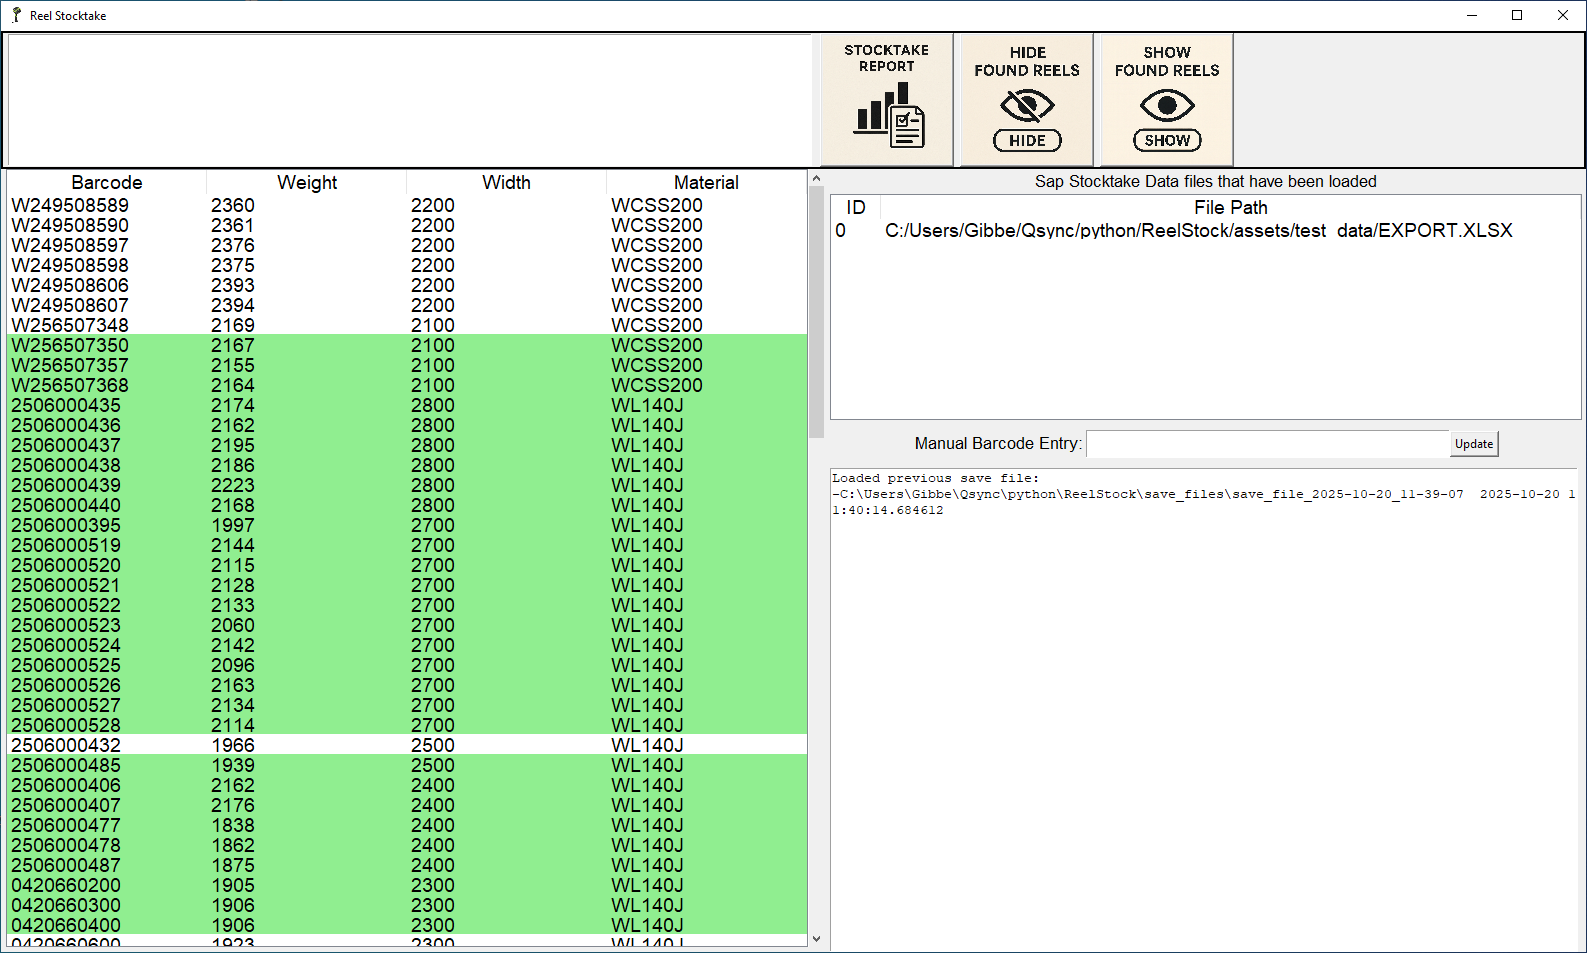
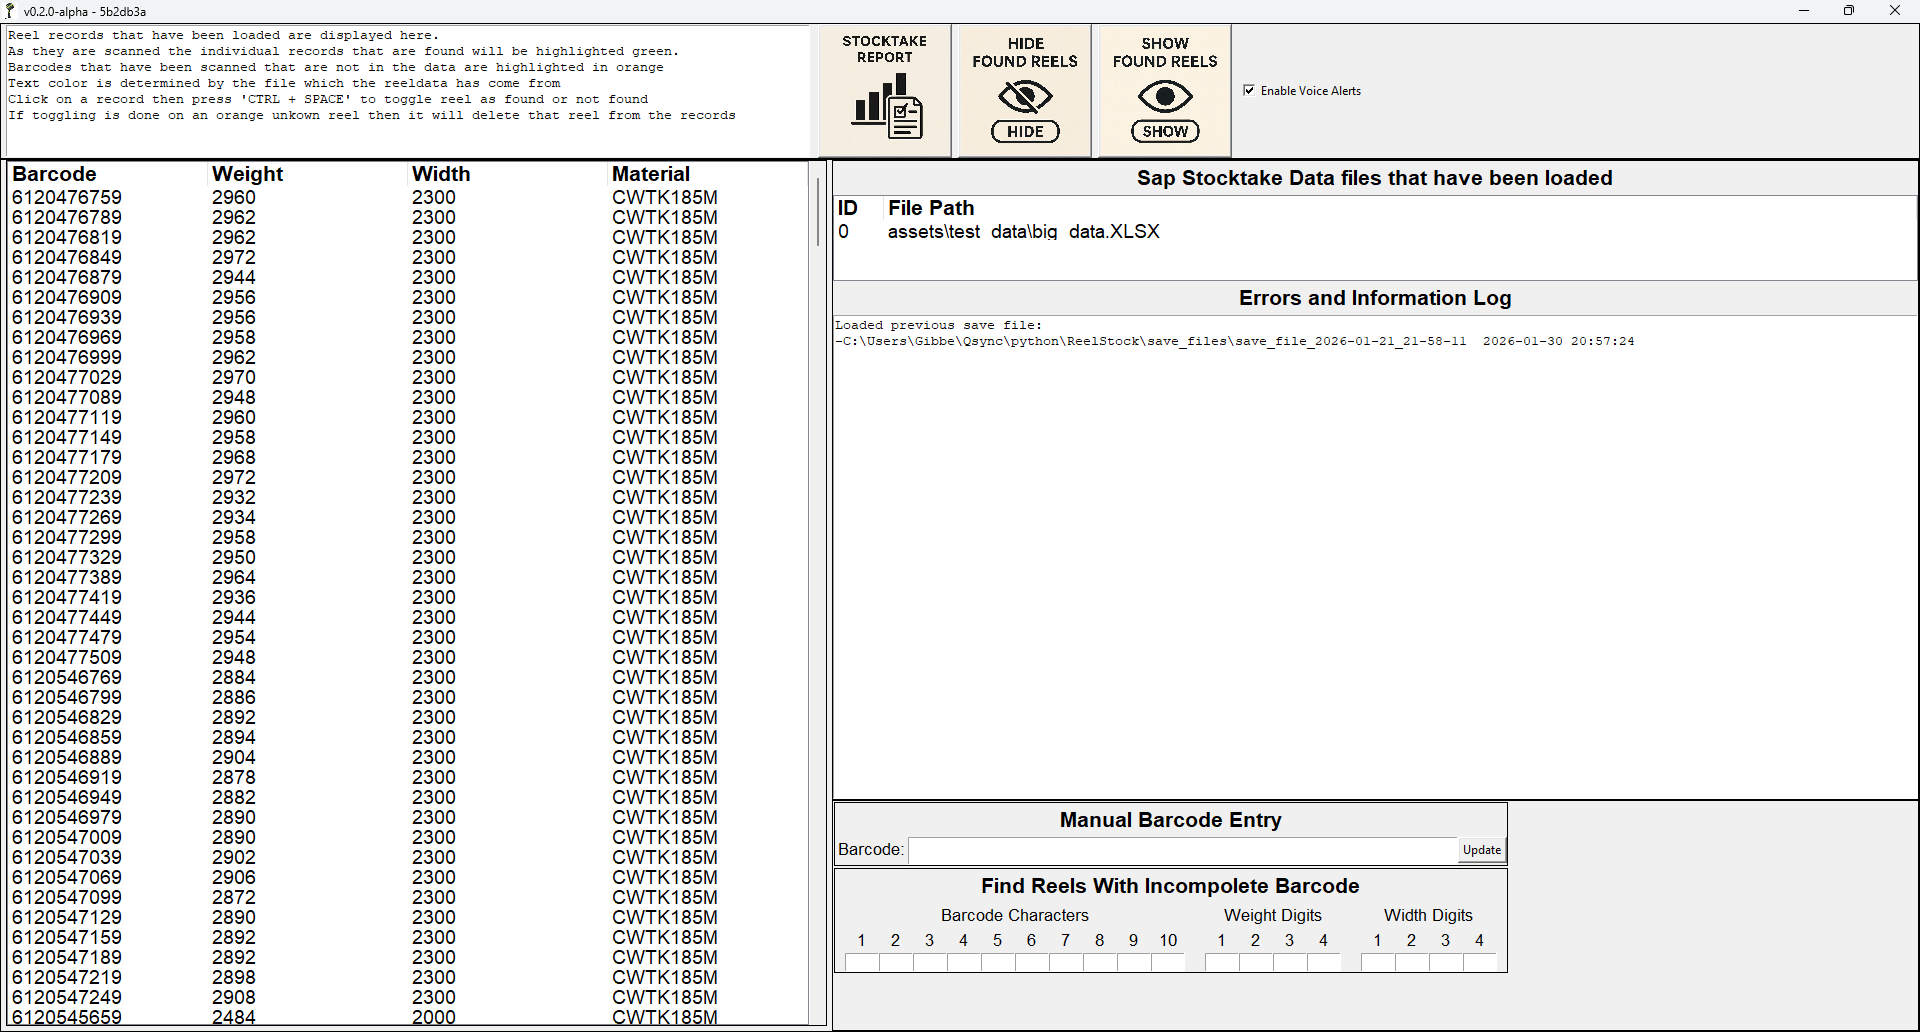
Updated Readme

diff --git a/README.md b/README.md
@@ -24,9 +24,9 @@ Download the source and run with:
 ### Using pyinstaller:
 Download source and build a pyinstaller executable. This will allow running on machines without requireing a python environment already installed.
 #### Create pyinstaller executable on Windows:
-```pyinstaller --noconfirm --clean --name ReelStock --add-data "assets\icons;assets\icons" --add-data "assets\images;assets\images" --icon=assets\icons\Zebra64.ico main.py```
+```build.bat```
 #### Create pyinstaller executable on Linux:
-```pyinstaller --noconfirm --clean --name ReelStock --add-data "assets/icons:assets/icons" --add-data "assets/images:assets/images" --icon=assets/icons/Zebra64.ico main.py```
+```source build.sh```
 
 ### Using pre-built PyInstaller executable:
 Download a zip of the pre-built binaries from the "Releases" section for your platform (Windows or Raspberry Pi)
@@ -38,23 +38,60 @@ To start a new stocktake test, drag and drop the Microsoft Excel spreadsheet of 
 Either setup a file association to open XLS files using the Reelstock executable, or open from the terminal with:
 ```Reelstock "path/to/mydata.xls"```
 
+
+
 #### Continue a stocktake on Windows and Linux:
 Run the executable without any files passed in. This starts up with the most recently saved stocktake.  If there is no previously saved stocktake, a file open dialog will come up allowing the manual opening of Reel data to start a new stocktake with.
-### Main application Window:
+
+## Gui Layout:
 <img src="assets/images/main_window.PNG" width=800>
 
-At the top left of the main window is a text box.  This text box will display help information based on the area the mouse pointer is located. This will be updated to reflect how the current version of the application operates. Below is a general overview of how the application functions.
+### Help TextBox:
+At the top left of the main window is a text box.  This text box will display help information based on the area the mouse pointer is located. 
 
-Current stock levels are loaded as an Excel spreadsheet.  ~~~Multiple files can be loaded at once, each files data is separated visually using a different colored text and that legend is displayed on screen.~~~(no longer required)  The column names determine how this data is intereted and is hard coded in the application.
-A barcode scanner scans reels in the store which updates this data to show that the reels have been found.  The barcode scanner needs to be setup in USB HID keyboard mode and to prefix a 'f13' key and postfix an 'f14' key to every barcode as it is scanned.
-The stocktake progress is saved after every barcode is scanned to allow shutdown and startup at any point without loss of stocktake information. 
+### Menu Buttons:
 
-### Report Window:
+#### Stocktake Report:
 
 <img src="assets/images/report_window.PNG" width=800>
 
-When all reels have been scanned a report can be generated to show what reels were missing as well as any reels found that were not in the stocktake data.
+Pressing this button opens a new window that shows what reels were missing as well as any reels found that were not in the stocktake data.
 Report data can be copied to the clipboard to update whatever system is used. Currently I have it as tab delimited text.
+
+#### Hide Found Reels:
+Pressing this button hides reels in the list that have already been scanned.
+
+#### Show Found Reels:
+Pressing this button displays any reels that have previosly been hidden with the "Hide Found Reels" button
+
+#### Enable Voice Alerts Checkbox:
+By default the application starts up with sound effects and voiced messages played for every barcode scanned. The voice component can be muted by unchecking this checkbox.
+
+
+### Manual Barcode Entry:
+Type the barcode to be marked as found into the entry box. Click update.
+
+### Find Reels With Incomplete Barcode:
+Input known barcode/width/weight digits into the digit position boxes. 
+As the digits are inserted, the list of reels will be filtered to show only those records that  match the information that was inserted.
+
+Scanning any barcode will resume the stocktake.
+
+
+## General Operation
+Current stock levels are loaded as an Excel spreadsheet.  Multiple files can be loaded at once, each files data is separated visually using a different colored text and that legend is displayed on screen. This is currently done by specifying multiple files from the command line.  
+
+Spreadsheet column names determine how this data is intereted and is hard coded in the application.
+
+A barcode scanner scans reels in the store which updates this data to show that the reels have been found.  
+
+The barcode scanner needs to be setup in USB HID keyboard mode with:
+- prefix a 'f13' key,  and 
+- postfix an 'f14' key 
+to every barcode as it is scanned.
+The stocktake progress is saved after every barcode is scanned to allow shutdown and startup at any point without loss of stocktake information. 
+
+
 
 ## Roadmap:
 
